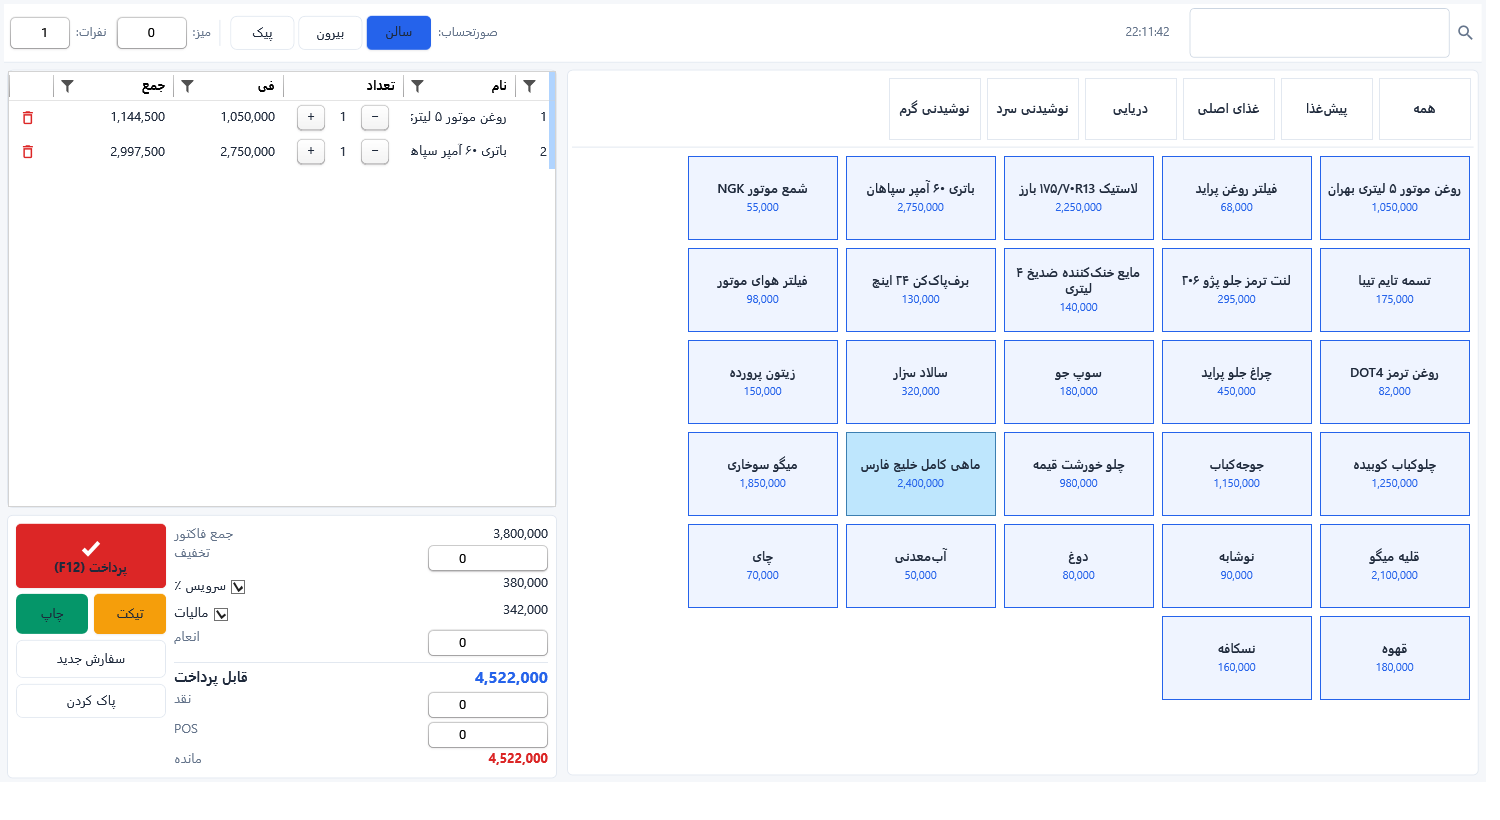
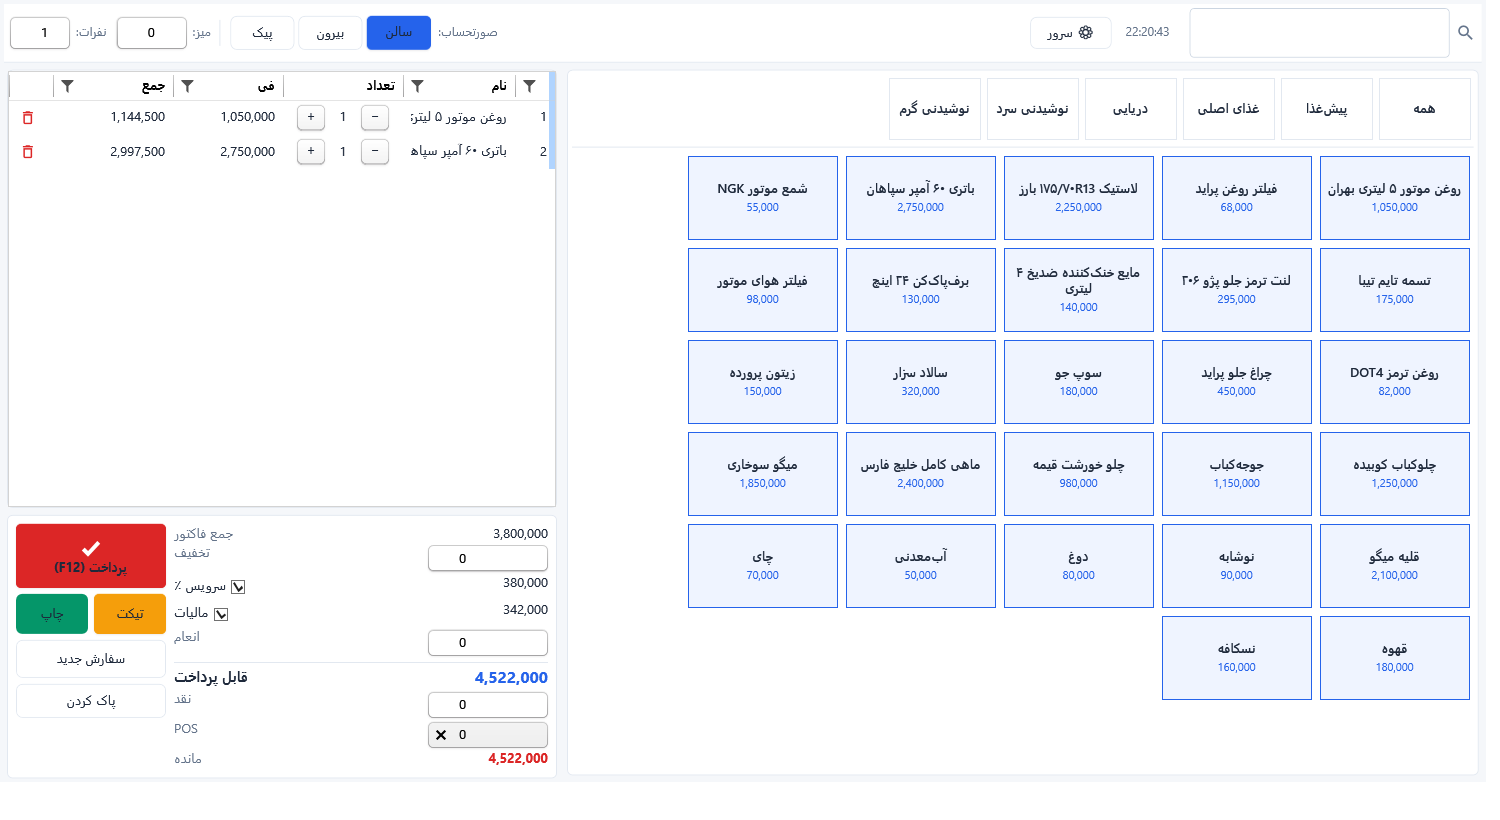
feat(pos): تنظیم اتصال سرور (IP) برای pos.exe و restoran.exe (کلاینتهای جدا)
- در حالت --pos/--restaurant اگر اتصال دیتابیس برقرار نشد، خودکار دیالوگ
  «تنظیمات اتصال به پایگاه داده» باز میشود؛ بعد از ذخیره، برنامه ریاستارت میشود
- آرگومان --setup برای باز کردن دستی تنظیم اتصال
- دکمه «⚙ سرور» روی نوار بالای هر دو صندوق (فروشگاهی و رستورانی) برای تغییر IP سرور
- بازاستفاده از ConnectionSettingsWindow (سرور/دیتابیس/احراز هویت/آزمایش/ذخیره)

بیلد کل solution: ۰ خطا

Changed region(s): [[0.552, 0.5183, 0.6747, 0.6402], [0.7053, 0.0305, 0.736, 0.061]]

diff --git a/src/SamaHesab.WPF/Views/POS/PosView.xaml b/src/SamaHesab.WPF/Views/POS/PosView.xaml
@@ -33,6 +33,7 @@
                         <ColumnDefinition Width="*"/>
                         <ColumnDefinition Width="Auto"/>
                         <ColumnDefinition Width="Auto"/>
+                        <ColumnDefinition Width="Auto"/>
                     </Grid.ColumnDefinitions>
                     <Border Background="{DynamicResource InputBackground}" BorderBrush="{DynamicResource PrimaryAccent}"
                             BorderThickness="2" CornerRadius="8" Margin="0,0,12,0">
@@ -46,6 +47,8 @@
                     </Border>
                     <Button Grid.Column="1" Content="🔍 جستجو" Style="{StaticResource PrimaryButton}" Height="42" Margin="0,0,8,0" Command="{Binding ProcessBarcodeCommand}"/>
                     <Button Grid.Column="2" Content="🗑 پاک کردن (F1)" Style="{StaticResource SecondaryButton}" Height="42" Command="{Binding NewSaleCommand}"/>
+                    <Button Grid.Column="3" Content="⚙ سرور" Style="{StaticResource SecondaryButton}" Height="42" Margin="8,0,0,0"
+                            ToolTip="تنظیمات اتصال به سرور (IP)" Click="ServerSettings_Click"/>
                 </Grid>
             </Border>
 

diff --git a/src/SamaHesab.WPF/Views/POS/RestaurantPosView.xaml b/src/SamaHesab.WPF/Views/POS/RestaurantPosView.xaml
@@ -49,6 +49,8 @@
                     <materialDesign:PackIcon Kind="Magnify" Width="20" Height="20" VerticalAlignment="Center" Foreground="{DynamicResource SecondaryText}"/>
                     <TextBox Text="{Binding QuickSearch, UpdateSourceTrigger=PropertyChanged}" Width="260" Margin="6,0" VerticalAlignment="Center"/>
                     <TextBlock Text="{Binding CurrentTime}" Style="{StaticResource ErpInlineLabel}" Margin="14,0,0,0"/>
+                    <Button Content="⚙ سرور" Height="32" Margin="14,0,0,0" Style="{StaticResource SecondaryButton}"
+                            ToolTip="تنظیمات اتصال به سرور (IP)" Click="ServerSettings_Click"/>
                 </StackPanel>
             </DockPanel>
         </Border>

diff --git a/src/SamaHesab.WPF/App.xaml.cs b/src/SamaHesab.WPF/App.xaml.cs
@@ -231,6 +231,14 @@ public partial class App : System.Windows.Application
         // ─── Touch POS mode (pos.exe / --pos / SAMA_POS=1): fullscreen fast checkout ──
         if (e.Args.Contains("--pos") || Environment.GetEnvironmentVariable("SAMA_POS") == "1")
         {
+            // On a separate client PC the DB is remote; if it can't be reached, let the
+            // operator enter the server IP, then restart to apply.
+            if (e.Args.Contains("--setup") || !await ClientDbReachableAsync())
+            {
+                new Views.Shell.ConnectionSettingsWindow().ShowDialog();
+                RestartSelf(e.Args.Where(a => a != "--setup").ToArray());
+                return;
+            }
             ((Services.CurrentUserService)_host.Services.GetRequiredService<ICurrentUserService>())
                 .SetCurrentUser(1, 1, 1, "admin", "صندوقدار", new[] { "ADMIN" }, Array.Empty<string>());
             try { await SamaHesab.Infrastructure.Identity.IdentitySeeder.EnsureDefaultAdminAsync(_host.Services); } catch { }
@@ -253,6 +261,12 @@ public partial class App : System.Windows.Application
         // ─── Restaurant POS mode (restoran.exe / --restaurant / SAMA_RESTAURANT=1) ──
         if (e.Args.Contains("--restaurant") || Environment.GetEnvironmentVariable("SAMA_RESTAURANT") == "1")
         {
+            if (e.Args.Contains("--setup") || !await ClientDbReachableAsync())
+            {
+                new Views.Shell.ConnectionSettingsWindow().ShowDialog();
+                RestartSelf(e.Args.Where(a => a != "--setup").ToArray());
+                return;
+            }
             ((Services.CurrentUserService)_host.Services.GetRequiredService<ICurrentUserService>())
                 .SetCurrentUser(1, 1, 1, "admin", "صندوق رستوران", new[] { "ADMIN" }, Array.Empty<string>());
             try
@@ -287,6 +301,31 @@ public partial class App : System.Windows.Application
 
         var loginWindow = _host.Services.GetRequiredService<LoginWindow>();
         loginWindow.Show();
+    }
+
+    /// <summary>Probe the configured DB (short timeout) — used by kiosk clients (pos/restoran).</summary>
+    private async Task<bool> ClientDbReachableAsync()
+    {
+        try
+        {
+            using var scope = _host!.Services.CreateScope();
+            var db = scope.ServiceProvider.GetRequiredService<ApplicationDbContext>();
+            return await db.Database.CanConnectAsync();
+        }
+        catch { return false; }
+    }
+
+    /// <summary>Relaunch the current executable (to apply a changed connection string).</summary>
+    private void RestartSelf(string[] args)
+    {
+        try
+        {
+            var exe = System.Diagnostics.Process.GetCurrentProcess().MainModule?.FileName;
+            if (!string.IsNullOrEmpty(exe))
+                System.Diagnostics.Process.Start(new System.Diagnostics.ProcessStartInfo(exe, string.Join(' ', args)) { UseShellExecute = false });
+        }
+        catch { }
+        Shutdown();
     }
 
     private async Task RunScreenshotsAsync(Window w)

diff --git a/src/SamaHesab.WPF/Views/POS/PosView.xaml.cs b/src/SamaHesab.WPF/Views/POS/PosView.xaml.cs
@@ -1,3 +1,14 @@
-using System.Windows.Controls;
+using System.Windows;
+using System.Windows.Controls;
+
 namespace SamaHesab.WPF.Views.POS;
-public partial class PosView : UserControl { public PosView() { InitializeComponent(); } }
+
+public partial class PosView : UserControl
+{
+    public PosView() => InitializeComponent();
+
+    private void ServerSettings_Click(object sender, RoutedEventArgs e)
+    {
+        new Shell.ConnectionSettingsWindow { Owner = Window.GetWindow(this) }.ShowDialog();
+    }
+}

diff --git a/src/SamaHesab.WPF/Views/POS/RestaurantPosView.xaml.cs b/src/SamaHesab.WPF/Views/POS/RestaurantPosView.xaml.cs
@@ -1,3 +1,4 @@
+using System.Windows;
 using System.Windows.Controls;
 
 namespace SamaHesab.WPF.Views.POS;
@@ -5,4 +6,9 @@ namespace SamaHesab.WPF.Views.POS;
 public partial class RestaurantPosView : UserControl
 {
     public RestaurantPosView() => InitializeComponent();
+
+    private void ServerSettings_Click(object sender, RoutedEventArgs e)
+    {
+        new Shell.ConnectionSettingsWindow { Owner = Window.GetWindow(this) }.ShowDialog();
+    }
 }
